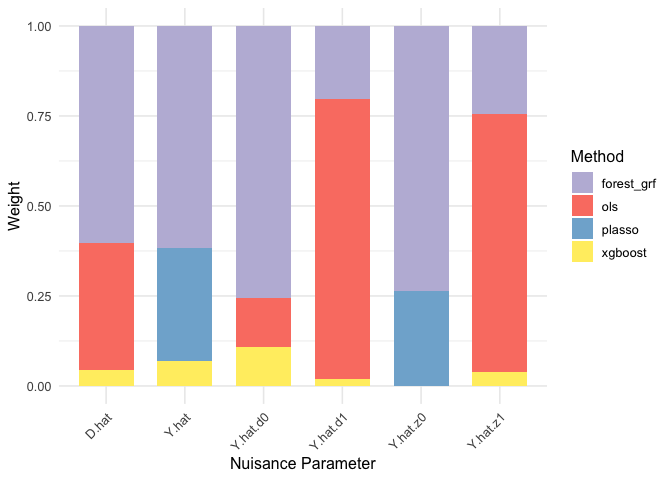
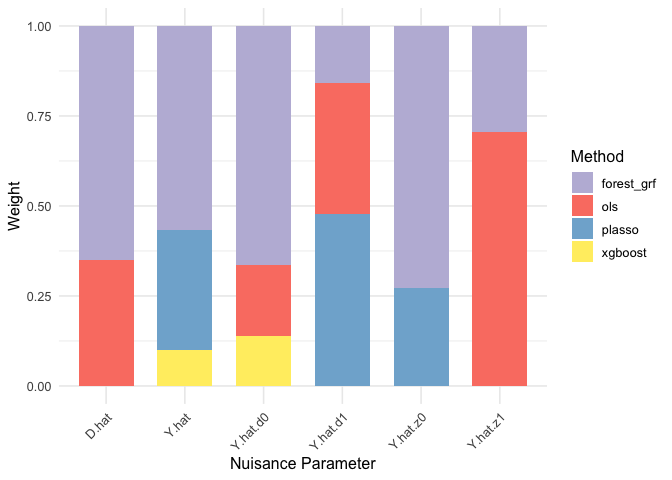
Documentation and typos fixed

diff --git a/README.md b/README.md
@@ -113,28 +113,28 @@ lapply(np$nuisance_parameters, head)
 ```
 
     ## $Y.hat
-    ## [1]  5969.990 -4669.972  3435.684 14776.976  6007.888 32605.119
+    ## [1]  7058.975 -4881.337  3455.096 15934.971  5986.686 30288.737
     ## 
     ## $Y.hat.d
-    ##               0         1
-    ## [1,]  2648.0503 22661.899
-    ## [2,] -2056.3953 -2534.668
-    ## [3,]  1115.4664 12684.022
-    ## [4,] 11164.6510 34435.515
-    ## [5,]   776.5629 13657.614
-    ## [6,] 23535.1625 38637.563
+    ##              0         1
+    ## [1,]  3526.154 23116.691
+    ## [2,] -2754.779 -5022.250
+    ## [3,]  1222.894 13258.026
+    ## [4,] 13519.835 32570.754
+    ## [5,]  1462.665  9434.402
+    ## [6,] 27618.794 40743.677
     ## 
     ## $Y.hat.z
-    ##              0        1
-    ## [1,]  3536.709 16980.52
-    ## [2,] -3346.530 -5122.62
-    ## [3,]  1201.548 10641.86
-    ## [4,] 10834.829 30117.62
-    ## [5,]  1679.534 13143.54
-    ## [6,] 30257.424 36523.94
+    ##              0         1
+    ## [1,]  3344.160 16684.341
+    ## [2,] -3490.358 -5045.121
+    ## [3,]  1130.550 10708.404
+    ## [4,] 10046.758 29714.784
+    ## [5,]  1491.874 13267.706
+    ## [6,] 32330.618 36662.476
     ## 
     ## $D.hat
-    ## [1] 0.14282537 0.03935637 0.14297639 0.26590898 0.30163428 0.44153960
+    ## [1] 0.15260967 0.04180766 0.14310949 0.25730060 0.30010843 0.44404818
     ## 
     ## $D.hat.z
     ## [1] "This nuisance parameter was not specified and is therefore empty."
@@ -180,9 +180,9 @@ treatments (column 4):
 | `lasso` | Lasso via `glmnet`. | Cont. & Binary | Binary |
 | `rlasso` | (Post-) Lasso via `hdm` with theory-based penalty. | Cont. & Binary | Binary |
 | `forest_grf` | Regression forest via `grf`. Can be tuned with grf’s tuning routines. | Cont. & Binary | Binary |
-| `ranger_fit` | Regression forest via `ranger` (`keep.inbag = TRUE`). Supports tuning via [`tuneRanger`](https://github.com/PhilippPro/tuneRanger?tab=readme-ov-file). | Cont. & Binary | Binary |
+| `ranger` | Regression forest via `ranger` (`keep.inbag = TRUE`). Supports tuning via [`tuneRanger`](https://github.com/PhilippPro/tuneRanger?tab=readme-ov-file). | Cont. & Binary | Binary |
 | `xgboost` | Gradient boosting via `xgboost` (100 rounds); `alpha = 0`, `subsample = 1`, `max_delta_step = 0`, and `base_score = mean(Y)` are suggested as defaults but can be overwritten (see `?create_method` for details). Supports tuning (see `?xgboost_tune`). | Cont. & Binary | Binary |
-| `knn` | k-Nearest Neighbors via `FastKNN`. | Cont. & Binary | Binary |
+| `knn` | k-Nearest Neighbors implementation (inspired by `FastKNN`) | Cont. & Binary | Binary |
 | `forest_drf` | Distributional random forest via `drf` (uses FourierMMD splits). | Cont. & Binary | Binary |
 | `glm` | Logit and probit via `glm`. | Binary | Binary |
 | `logit` | Logistic regression via `glmnet`. Uses `family = "binomial"` for binary outcomes, `family = "multinomial"` for multiclass outcomes. | Binary | Binary & Multiclass-Native |